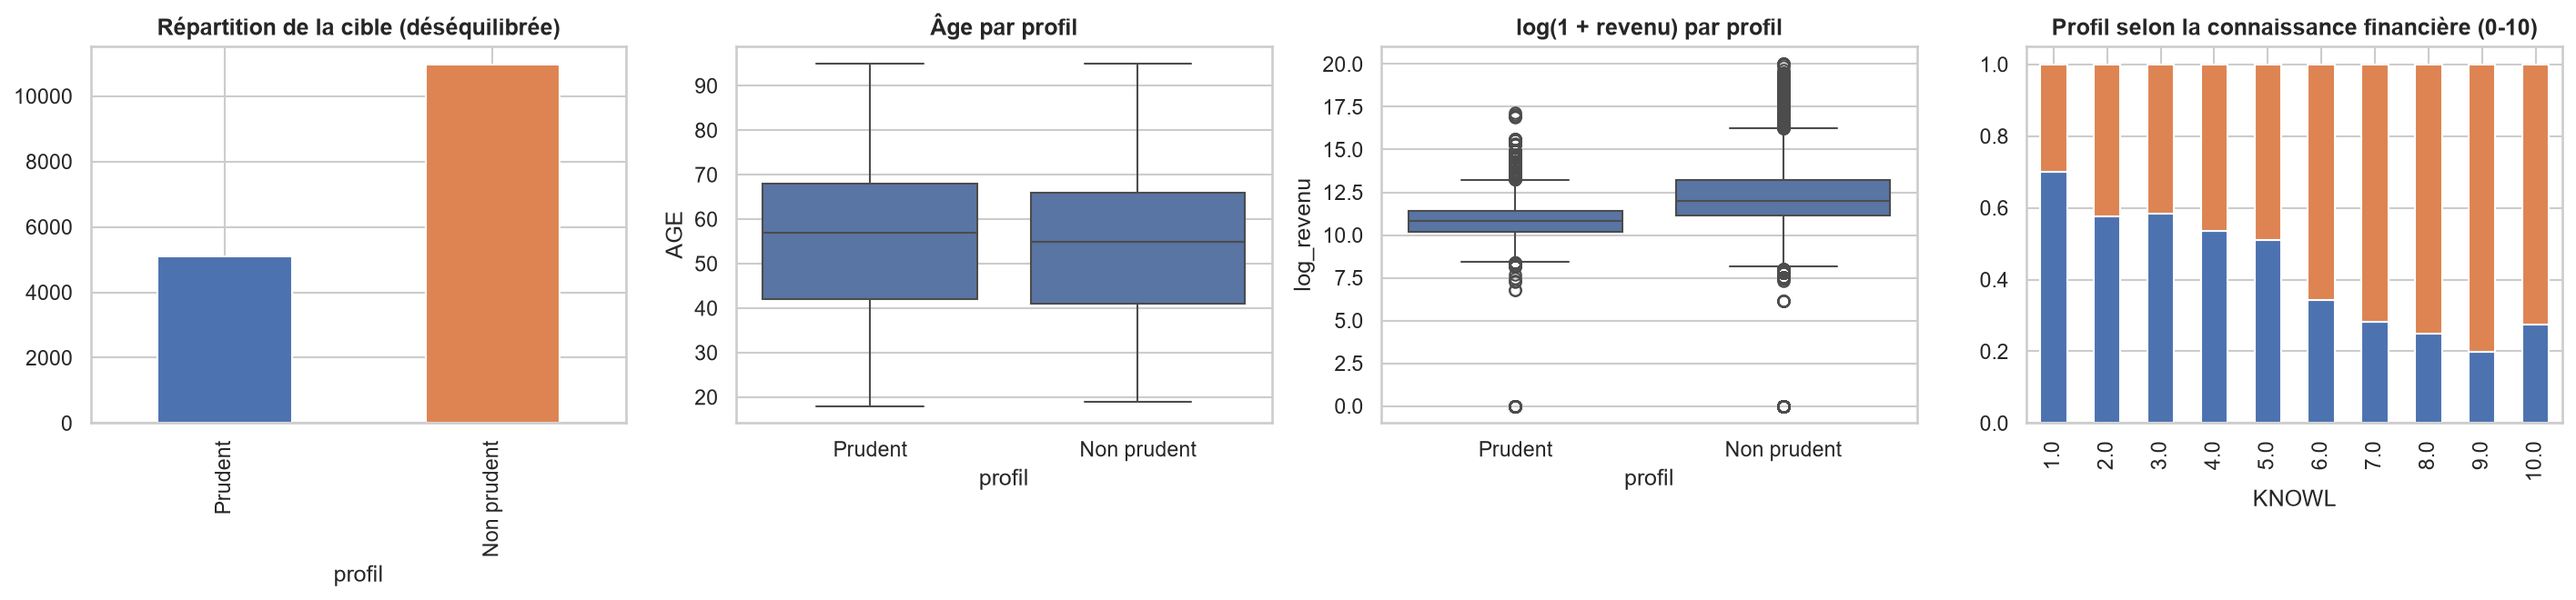
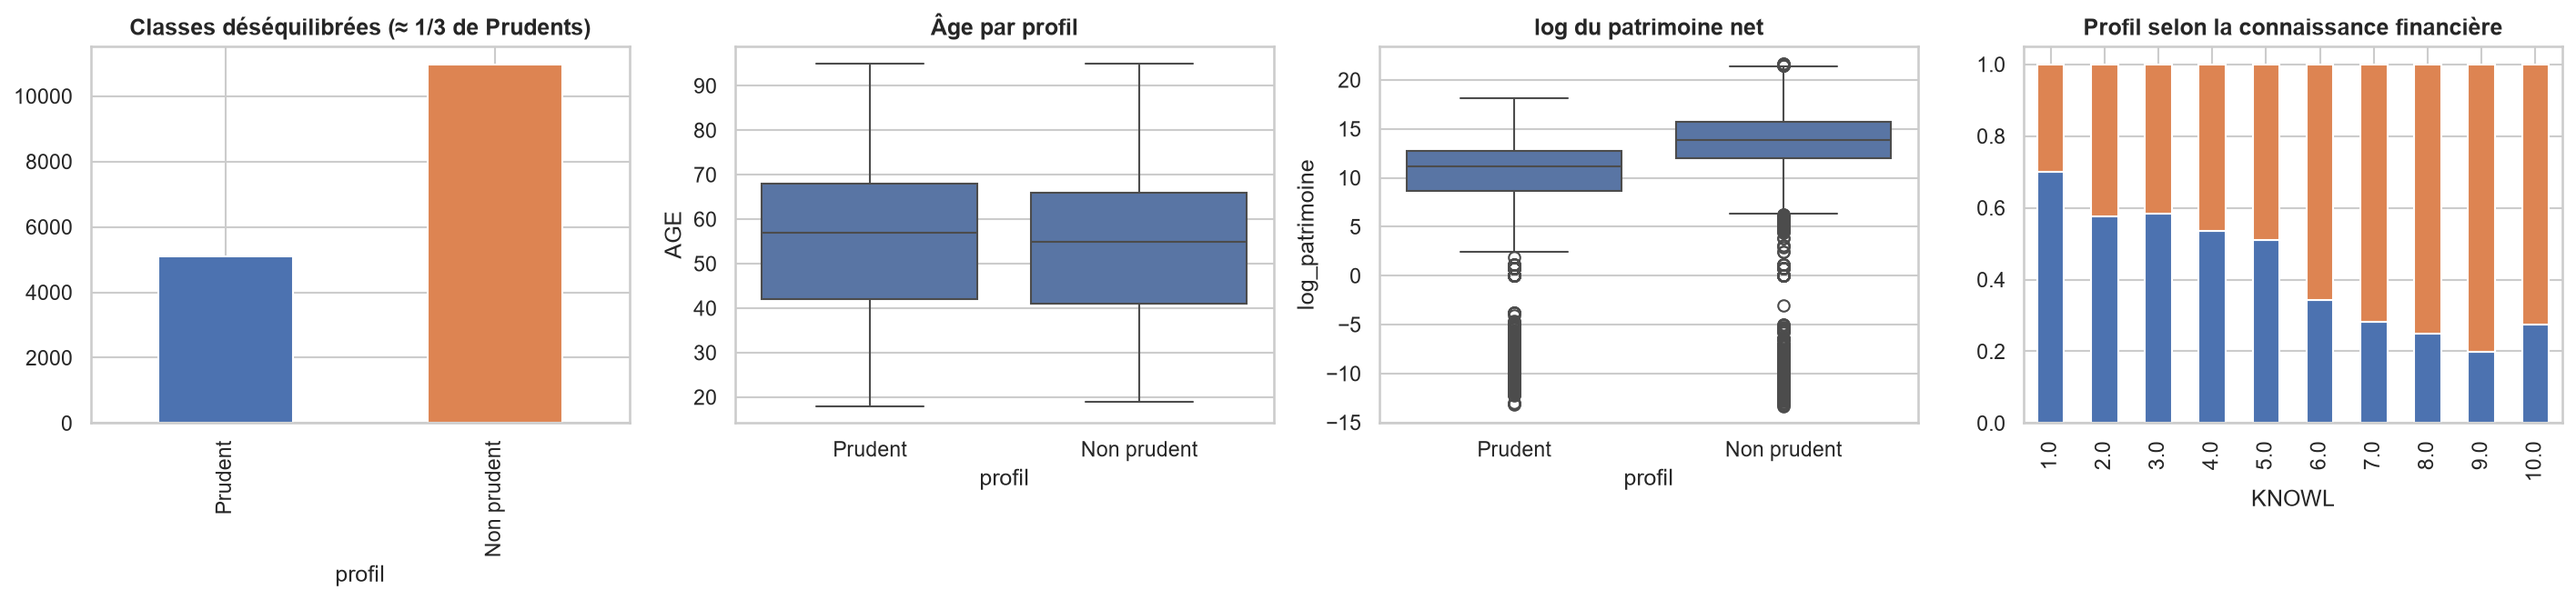
Notebook v4 : section 3a agent Profil (decoupage par menage, EDA, pipeline, 10 modeles), libelles SCF

diff --git a/tools/sections/s03_profil_a.py b/tools/sections/s03_profil_a.py
@@ -1,0 +1,206 @@
+from cellules import code, md
+
+CELLS = [
+md(r"""
+## 3. Agent Profil – classification supervisée de l'aversion au risque
+
+### 3.1 Problématique et formulation
+À partir de la situation d'un ménage (âge, revenus, patrimoine, dettes, éducation, connaissances financières, comportements d'épargne), on cherche à estimer **sa capacité à supporter des pertes**. La cible vient d'une question réelle du SCF : le ménage est-il prêt à prendre des risques financiers ?
+
+- `NOFINRISK = 1` (« aucun risque ») → classe **Prudent** (≈ 32 % des ménages) ;
+- sinon → classe **Non prudent**.
+
+C'est une **classification binaire** (cours 1). La version à 3 classes (Prudent / Équilibré / Dynamique) a été testée dans la version précédente du projet : la classe « Dynamique » ne représente que 5 % des ménages et n'est pas séparable avec ces variables (F1 macro plafonné à 0,50 quel que soit le modèle). Le passage Équilibré → Dynamique est donc décidé par un **questionnaire noté de 7 questions** (horizon, réaction à une baisse, perte acceptable…), comme dans les questionnaires réglementaires MiFID II.
+
+**Décision finale** : profil retenu = le plus prudent entre la *tolérance déclarée* (questionnaire) et la *capacité estimée* (modèle ML). Toute divergence déclenche une alerte pour le conseiller.
+
+**Piège de fuite propre au SCF** : chaque ménage apparaît sur **5 lignes quasi identiques** (imputation multiple des valeurs manquantes). Un découpage aléatoire ligne par ligne placerait des copies d'un même ménage dans l'entraînement et dans le test. Le découpage se fait donc **par ménage**.
+"""),
+code(r"""
+from sklearn.base import clone
+from sklearn.compose import ColumnTransformer
+from sklearn.pipeline import Pipeline as SkPipeline
+from sklearn.impute import SimpleImputer
+from sklearn.preprocessing import StandardScaler, OneHotEncoder
+from sklearn.model_selection import train_test_split, StratifiedGroupKFold, RandomizedSearchCV, learning_curve
+from sklearn.dummy import DummyClassifier
+from sklearn.linear_model import LogisticRegression
+from sklearn.neighbors import KNeighborsClassifier
+from sklearn.svm import SVC
+from sklearn.tree import DecisionTreeClassifier
+from sklearn.ensemble import RandomForestClassifier
+from sklearn.neural_network import MLPClassifier
+from sklearn.metrics import (roc_auc_score, f1_score, balanced_accuracy_score, precision_score, recall_score,
+                             accuracy_score, ConfusionMatrixDisplay, RocCurveDisplay)
+from sklearn.inspection import permutation_importance
+from imblearn.pipeline import Pipeline
+from imblearn.over_sampling import SMOTE, ADASYN
+import lightgbm as lgb
+import xgboost as xgb
+import catboost as cb
+from src.preprocessing import prepare_scf, Winsorizer, SignedLog, MONEY_FEATURES
+
+X_p, y_p, groups_p, w_p, scf_report = prepare_scf(scf_raw)
+num_p, cat_p = scf_report["variables_numeriques"], scf_report["variables_categorielles"]
+print(f"{scf_report['lignes_finales']} lignes | {scf_report['menages_uniques']} ménages | "
+      f"{len(num_p)} variables numériques + {len(cat_p)} catégorielles")
+print("Répartition de la cible :", scf_report["repartition_cible"])
+"""),
+md(r"""
+### 3.2 Découpage entraînement / validation / test (70 / 15 / 15) **avant** tout prétraitement
+Méthode « *three-way holdout* » du cours : l'entraînement sert à ajuster les modèles, la validation à **choisir** un modèle et un seuil, et le test à mesurer une seule fois la performance du modèle choisi. Le découpage est stratifié sur la classe et fait **par ménage**.
+"""),
+code(r"""
+hh = pd.DataFrame({"g": groups_p.values, "y": y_p.astype(str).values}).groupby("g")["y"].agg(lambda s: s.mode().iloc[0])
+hh_train, hh_tmp = train_test_split(hh.index, test_size=0.30, stratify=hh.values, random_state=RANDOM_STATE)
+hh_val, hh_test = train_test_split(hh_tmp, test_size=0.50, stratify=hh.loc[hh_tmp].values, random_state=RANDOM_STATE)
+m_tr, m_va, m_te = (groups_p.isin(h).values for h in (hh_train, hh_val, hh_test))
+assert not (set(hh_train) & set(hh_val) or set(hh_train) & set(hh_test) or set(hh_val) & set(hh_test))
+
+# Codage : 0 = Prudent, 1 = Non prudent (ordre de PROFILE_ML_CLASSES, utilisé par l'agent)
+CLS_TO_INT = {c: i for i, c in enumerate(PROFILE_ML_CLASSES)}
+y_int = y_p.astype(str).map(CLS_TO_INT).astype(int)
+Xp_tr, Xp_va, Xp_te = X_p[m_tr], X_p[m_va], X_p[m_te]
+yp_tr, yp_va, yp_te = y_int[m_tr], y_int[m_va], y_int[m_te]
+gp_tr = groups_p[m_tr]
+pd.DataFrame({"lignes": [m_tr.sum(), m_va.sum(), m_te.sum()],
+              "ménages": [len(hh_train), len(hh_val), len(hh_test)],
+              "% Prudent": [(y == 0).mean() * 100 for y in (yp_tr, yp_va, yp_te)]},
+             index=["entraînement", "validation", "test"])
+"""),
+md(r"""
+### 3.3 Analyse exploratoire (entraînement uniquement)
+"""),
+code(r"""
+eda = Xp_tr.copy()
+eda["profil"] = yp_tr.map({v: k for k, v in CLS_TO_INT.items()})
+fig, axes = plt.subplots(1, 4, figsize=(19, 4.5))
+eda["profil"].value_counts().reindex(PROFILE_ML_CLASSES).plot.bar(ax=axes[0], color=["#4C72B0", "#DD8452"])
+axes[0].set_title("Classes déséquilibrées (≈ 1/3 de Prudents)")
+sns.boxplot(data=eda, x="profil", y="AGE", order=PROFILE_ML_CLASSES, ax=axes[1])
+axes[1].set_title("Âge par profil")
+eda["log_patrimoine"] = np.sign(eda["NETWORTH"]) * np.log1p(eda["NETWORTH"].abs())
+sns.boxplot(data=eda, x="profil", y="log_patrimoine", order=PROFILE_ML_CLASSES, ax=axes[2])
+axes[2].set_title("log du patrimoine net")
+pd.crosstab(eda["KNOWL"], eda["profil"], normalize="index")[PROFILE_ML_CLASSES].plot.bar(stacked=True, ax=axes[3], legend=False)
+axes[3].set_title("Profil selon la connaissance financière")
+plt.tight_layout()
+savefig("06_eda_profils")
+plt.show()
+"""),
+md(r"""
+**Lecture** : les Prudents sont plus âgés, nettement moins aisés et déclarent moins de connaissances financières. Les montants (revenu, patrimoine, dettes) sont **très asymétriques**, d'où une transformation logarithmique signée $\text{sign}(x)\ln(1+|x|)$. Les classes sont **déséquilibrées** : l'*accuracy* serait trompeuse (prédire toujours « Non prudent » donne déjà 68 %). On utilise l'**AUC ROC**, le **rappel**, la **précision** et le **F1**, comme le recommande le cours.
+
+### 3.4 Pipeline de prétraitement (cours : imputation, standardisation, one-hot encoding)
+- **Montants** : imputation par la médiane → log signé → standardisation.
+- **Autres variables numériques** : imputation par la médiane → écrêtage aux quantiles 1 % / 99 % → standardisation.
+- **Variables catégorielles** : imputation par la modalité la plus fréquente → encodage one-hot (modalités rares regroupées).
+
+Toutes ces étapes sont **apprises sur l'entraînement** (médianes, quantiles, moyennes, écarts-types).
+"""),
+code(r"""
+money_p = [c for c in MONEY_FEATURES if c in num_p]
+other_p = [c for c in num_p if c not in money_p]
+pre_profile = ColumnTransformer([
+    ("montants", SkPipeline([("imp", SimpleImputer(strategy="median")), ("log", SignedLog()),
+                             ("sc", StandardScaler())]), money_p),
+    ("num", SkPipeline([("imp", SimpleImputer(strategy="median")), ("win", Winsorizer(0.01, 0.99)),
+                        ("sc", StandardScaler())]), other_p),
+    ("cat", SkPipeline([("imp", SimpleImputer(strategy="most_frequent")),
+                        ("ohe", OneHotEncoder(handle_unknown="ignore", sparse_output=False, min_frequency=20))]), cat_p),
+])
+"""),
+md(r"""
+### 3.5 Modèles comparés
+
+| Modèle | Idée | Fonction de coût / principe |
+|---|---|---|
+| **Baseline** classe majoritaire | Niveau « sans apprentissage » | — |
+| **Régression logistique** | $p(y=1\mid x)=\sigma(\beta_0+\sum_j\beta_j x_j)$ ; coefficients interprétables | Entropie croisée binaire (BCE) + pénalité $\lambda\lVert\beta\rVert_2^2$ (C = 1/λ) |
+| **KNN** | Vote des k plus proches voisins | Distance euclidienne ; pas d'apprentissage |
+| **SVM** (noyau RBF) | Frontière de marge maximale dans un espace transformé | Perte charnière + régularisation (C) |
+| **Arbre de décision** | Questions successives sur les variables | Impureté de Gini |
+| **Forêt aléatoire** | Moyenne d'arbres décorrélés (*bagging*) | Réduit la variance |
+| **LightGBM, XGBoost, CatBoost** | Arbres ajoutés un à un pour corriger les erreurs (*boosting*) | Descente de gradient sur la BCE |
+| **MLP** | Réseau de neurones à 2 couches cachées | BCE minimisée par **Adam** |
+
+**Réglage des hyperparamètres** : recherche aléatoire (au plus `N_ITER` combinaisons) avec **validation croisée stratifiée par groupes** (ménages) sur l'entraînement, critère AUC ROC. Les modèles qui l'acceptent utilisent des **poids de classes équilibrés** ; KNN et MLP n'en acceptent pas et utilisent **SMOTE** (voir 3.6). La SVM, coûteuse (complexité au moins quadratique en n), est entraînée sur un sous-échantillon de 4 000 lignes.
+
+**Règle de choix fixée à l'avance** : on retient le modèle de meilleure AUC de validation. Si la régression logistique est à moins de 0,005 de ce meilleur score, on la préfère (principe de parcimonie : c'est le modèle le plus simple et le plus explicable).
+"""),
+code(r"""
+spw = float((yp_tr == 1).sum() / (yp_tr == 0).sum())   # poids de la classe 0 (Prudent) pour XGBoost
+
+
+def profile_models():
+    rs = RANDOM_STATE
+    m = {
+        "Baseline – classe majoritaire": ([("m", DummyClassifier(strategy="most_frequent"))], {}),
+        "Régression logistique": ([("m", LogisticRegression(max_iter=3000, class_weight="balanced"))],
+                                  {"m__C": [0.003, 0.01, 0.03, 0.1, 1]}),
+        "KNN (+SMOTE)": ([("smote", SMOTE(random_state=rs)), ("m", KNeighborsClassifier())],
+                         {"m__n_neighbors": [50, 100, 150, 250]}),
+        "SVM (noyau RBF)": ([("m", SVC(probability=True, class_weight="balanced", random_state=rs))],
+                            {"m__C": [0.1, 0.3, 1]}),
+        "Arbre de décision": ([("m", DecisionTreeClassifier(class_weight="balanced", random_state=rs))],
+                              {"m__max_depth": [3, 4, 6, 8], "m__min_samples_leaf": [20, 50, 100]}),
+        "Forêt aléatoire": ([("m", RandomForestClassifier(200, class_weight="balanced_subsample", n_jobs=1, random_state=rs))],
+                            {"m__max_depth": [8, 12, 16], "m__min_samples_leaf": [10, 20, 50]}),
+        "LightGBM": ([("m", lgb.LGBMClassifier(n_estimators=300, class_weight="balanced", subsample=0.8, subsample_freq=1,
+                                               colsample_bytree=0.8, verbose=-1, n_jobs=1, random_state=rs))],
+                     {"m__learning_rate": [0.02, 0.05, 0.1], "m__num_leaves": [7, 15, 31], "m__min_child_samples": [20, 50]}),
+        "XGBoost": ([("m", xgb.XGBClassifier(n_estimators=300, subsample=0.8, colsample_bytree=0.8, scale_pos_weight=1 / spw,
+                                             tree_method="hist", n_jobs=1, random_state=rs))],
+                    {"m__learning_rate": [0.02, 0.05, 0.1], "m__max_depth": [2, 3, 5], "m__min_child_weight": [1, 10]}),
+        "CatBoost": ([("m", cb.CatBoostClassifier(iterations=300, auto_class_weights="Balanced", verbose=0, thread_count=1,
+                                                  allow_writing_files=False, random_seed=rs))],
+                     {"m__learning_rate": [0.03, 0.1], "m__depth": [4, 6]}),
+        "MLP (Adam)": ([("smote", SMOTE(random_state=rs)),
+                        ("m", MLPClassifier((64, 32), solver="adam", early_stopping=True, max_iter=500, random_state=rs))],
+                       {"m__alpha": [1e-3, 1e-2, 1e-1, 1.0]}),
+    }
+    return m
+
+
+def eval_profile(model, X, y, threshold=0.5, sample_weight=None) -> dict:
+    # Classe d'intérêt = Prudent (codée 0) : on prédit « Prudent » si P(Prudent) ≥ seuil
+    p_prud = model.predict_proba(X)[:, 0]
+    pred_prud = (p_prud >= threshold).astype(int)
+    y_prud = (np.asarray(y) == 0).astype(int)
+    sw = sample_weight
+    return {"ROC-AUC": roc_auc_score(y_prud, p_prud, sample_weight=sw),
+            "F1 macro": f1_score(y_prud, pred_prud, average="macro", sample_weight=sw),
+            "Balanced acc.": balanced_accuracy_score(y_prud, pred_prud, sample_weight=sw),
+            "Précision Prudent": precision_score(y_prud, pred_prud, sample_weight=sw, zero_division=0),
+            "Rappel Prudent": recall_score(y_prud, pred_prud, sample_weight=sw),
+            "Accuracy": accuracy_score(y_prud, pred_prud, sample_weight=sw)}
+
+
+cv_p = StratifiedGroupKFold(n_splits=3 if QUICK_RUN else 5, shuffle=True, random_state=RANDOM_STATE)
+sub = Xp_tr.sample(4000, random_state=RANDOM_STATE).index      # sous-échantillon pour la SVM
+profile_fitted, rows = {}, {}
+for name, (steps, grid) in profile_models().items():
+    t0 = time.time()
+    Xf, yf, gf = (Xp_tr.loc[sub], yp_tr.loc[sub], gp_tr.loc[sub]) if name.startswith("SVM") else (Xp_tr, yp_tr, gp_tr)
+    pipe = Pipeline([("pre", pre_profile)] + steps)
+    if grid:
+        n_comb = int(np.prod([len(v) for v in grid.values()]))
+        search = RandomizedSearchCV(pipe, grid, n_iter=min(N_ITER, n_comb), cv=cv_p, scoring="roc_auc",
+                                    n_jobs=N_JOBS, random_state=RANDOM_STATE).fit(Xf, yf, groups=gf)
+        best, cv_auc, params = search.best_estimator_, search.best_score_, search.best_params_
+    else:
+        best, cv_auc, params = pipe.fit(Xf, yf), 0.5, {}
+    profile_fitted[name] = best
+    rows[name] = {"AUC CV (train)": cv_auc, **eval_profile(best, Xp_va, yp_va), "Durée (s)": time.time() - t0,
+                  "Hyperparamètres": {k.replace("m__", ""): v for k, v in params.items()}}
+    print(f"✓ {name:<32} AUC validation = {rows[name]['ROC-AUC']:.4f}  ({time.time() - t0:.0f} s)")
+
+profile_comparison = pd.DataFrame(rows).T.sort_values("ROC-AUC", ascending=False)
+profile_comparison.to_csv(RESULTS_DIR / "agent_profil_comparaison_validation.csv")
+RESULTS["profil_validation"] = profile_comparison.drop(columns="Hyperparamètres")
+profile_comparison
+"""),
+md(r"""
+**Lecture** : tous les modèles appris battent largement la baseline (AUC 0,5). Les écarts entre les meilleurs modèles sont faibles (quelques millièmes d'AUC) : la relation entre situation financière et aversion au risque est **essentiellement monotone**, et un modèle linéaire la capte presque aussi bien que des ensembles d'arbres. Le MLP, plus flexible, est le moins bon : avec ~16 000 lignes bruitées, il souffre de **variance** (surapprentissage).
+"""),
+]

diff --git a/src/config.py b/src/config.py
@@ -123,6 +123,29 @@ SCF_CAT_FEATURES = [
     "ISHOPNONE", "ISHOPGRDL", "ISHOPMODR", "IFINPRO", "ISELF", "IINTERNET", "IFRIENDWORK",
     "IMAGZNEWS", "ICALL", "INTERNET",
 ]
+# Libellés lisibles des variables SCF (explications SHAP du notebook et de l'application)
+SCF_LABELS = {
+    "AGE": "Âge", "KIDS": "Enfants à charge", "INCOME": "Revenu annuel", "NORMINC": "Revenu habituel",
+    "WAGEINC": "Revenus salariaux", "NETWORTH": "Patrimoine net", "ASSET": "Total des actifs",
+    "DEBT": "Total des dettes", "LEVRATIO": "Dettes / actifs", "DEBT2INC": "Dettes / revenu",
+    "KNOWL": "Connaissances financières (0-10)", "FINLIT": "Quiz de culture financière (0-3)",
+    "EDUC": "Durée des études", "HHSEX": "Sexe", "EDCL": "Niveau d'études", "MARRIED": "En couple",
+    "OCCAT1": "Situation professionnelle", "OCCAT2": "Catégorie professionnelle", "LF": "Actif sur le marché du travail",
+    "LIFECL": "Étape du cycle de vie", "HOUSECL": "Propriétaire du logement", "HBUS": "Possède une entreprise",
+    "SAVED": "A épargné l'an dernier", "WSAVED": "Comportement d'épargne", "SPENDMOR": "Dépenses plus élevées que prévu",
+    "SPENDLESS": "Dépenses plus faibles que prévu", "EXPENSHILO": "Dépenses inhabituelles", "LATE": "Retards de paiement",
+    "HPAYDAY": "Prêt sur salaire", "BNKRUPLAST5": "Faillite (5 ans)", "FORECLLAST5": "Saisie immobilière (5 ans)",
+    "TURNDOWN": "Crédit refusé", "EMERGSAV": "Épargne de précaution", "EMERGBORR": "Emprunterait en cas d'urgence",
+    "EMERGCUT": "Réduirait ses dépenses en cas d'urgence", "EMERGPSTP": "Reporterait ses paiements en cas d'urgence",
+    "SAVRES1": "Ne peut pas épargner", "SAVRES2": "Épargne pour les études", "SAVRES3": "Épargne pour la famille",
+    "SAVRES4": "Épargne pour le logement", "SAVRES5": "Épargne pour des achats", "SAVRES6": "Épargne pour la retraite",
+    "SAVRES7": "Épargne de précaution / liquidité", "SAVRES8": "Épargne pour investir", "SAVRES9": "Épargne sans but précis",
+    "ISHOPNONE": "Ne compare pas les placements", "ISHOPGRDL": "Compare beaucoup les placements",
+    "ISHOPMODR": "Compare modérément les placements", "IFINPRO": "Conseiller financier", "ISELF": "Décide seul",
+    "IINTERNET": "S'informe sur internet", "IFRIENDWORK": "Conseils d'amis / collègues", "IMAGZNEWS": "Presse spécialisée",
+    "ICALL": "Démarchage téléphonique", "INTERNET": "Banque en ligne",
+}
+
 PROFILE_CLASSES = ["Prudent", "Équilibré", "Dynamique"]
 
 # Formulation de la tâche de l'agent Profil :
